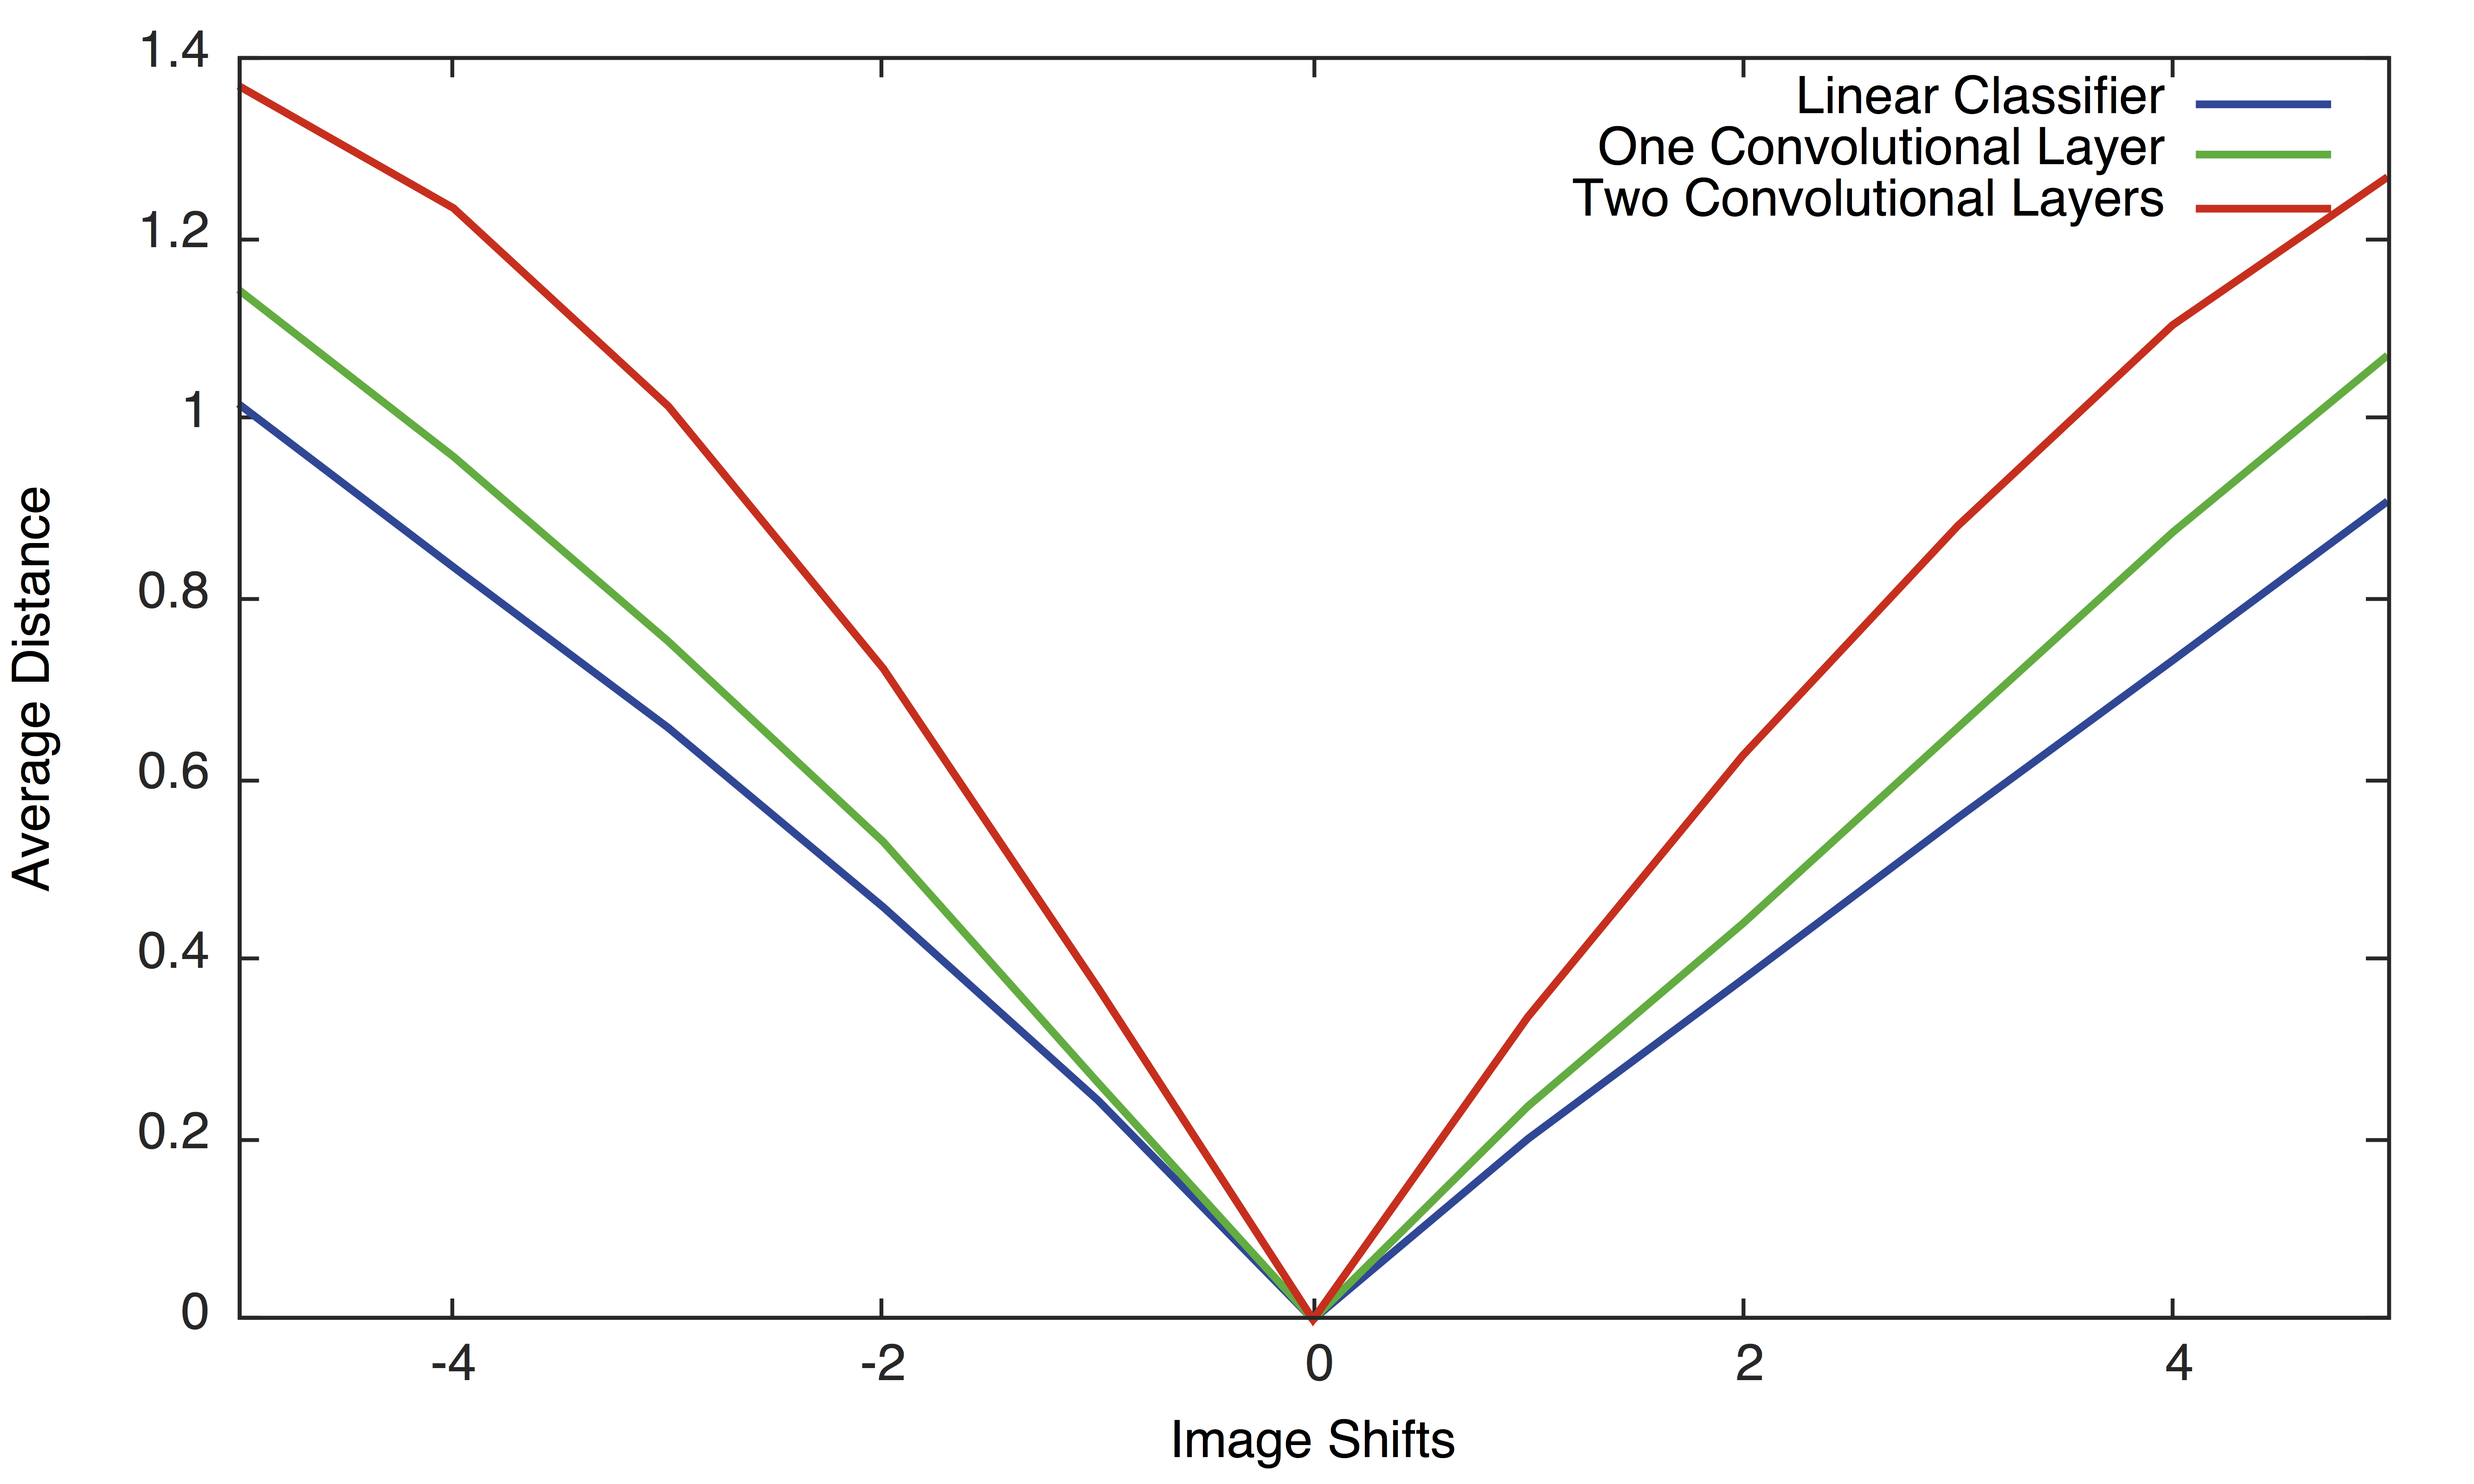
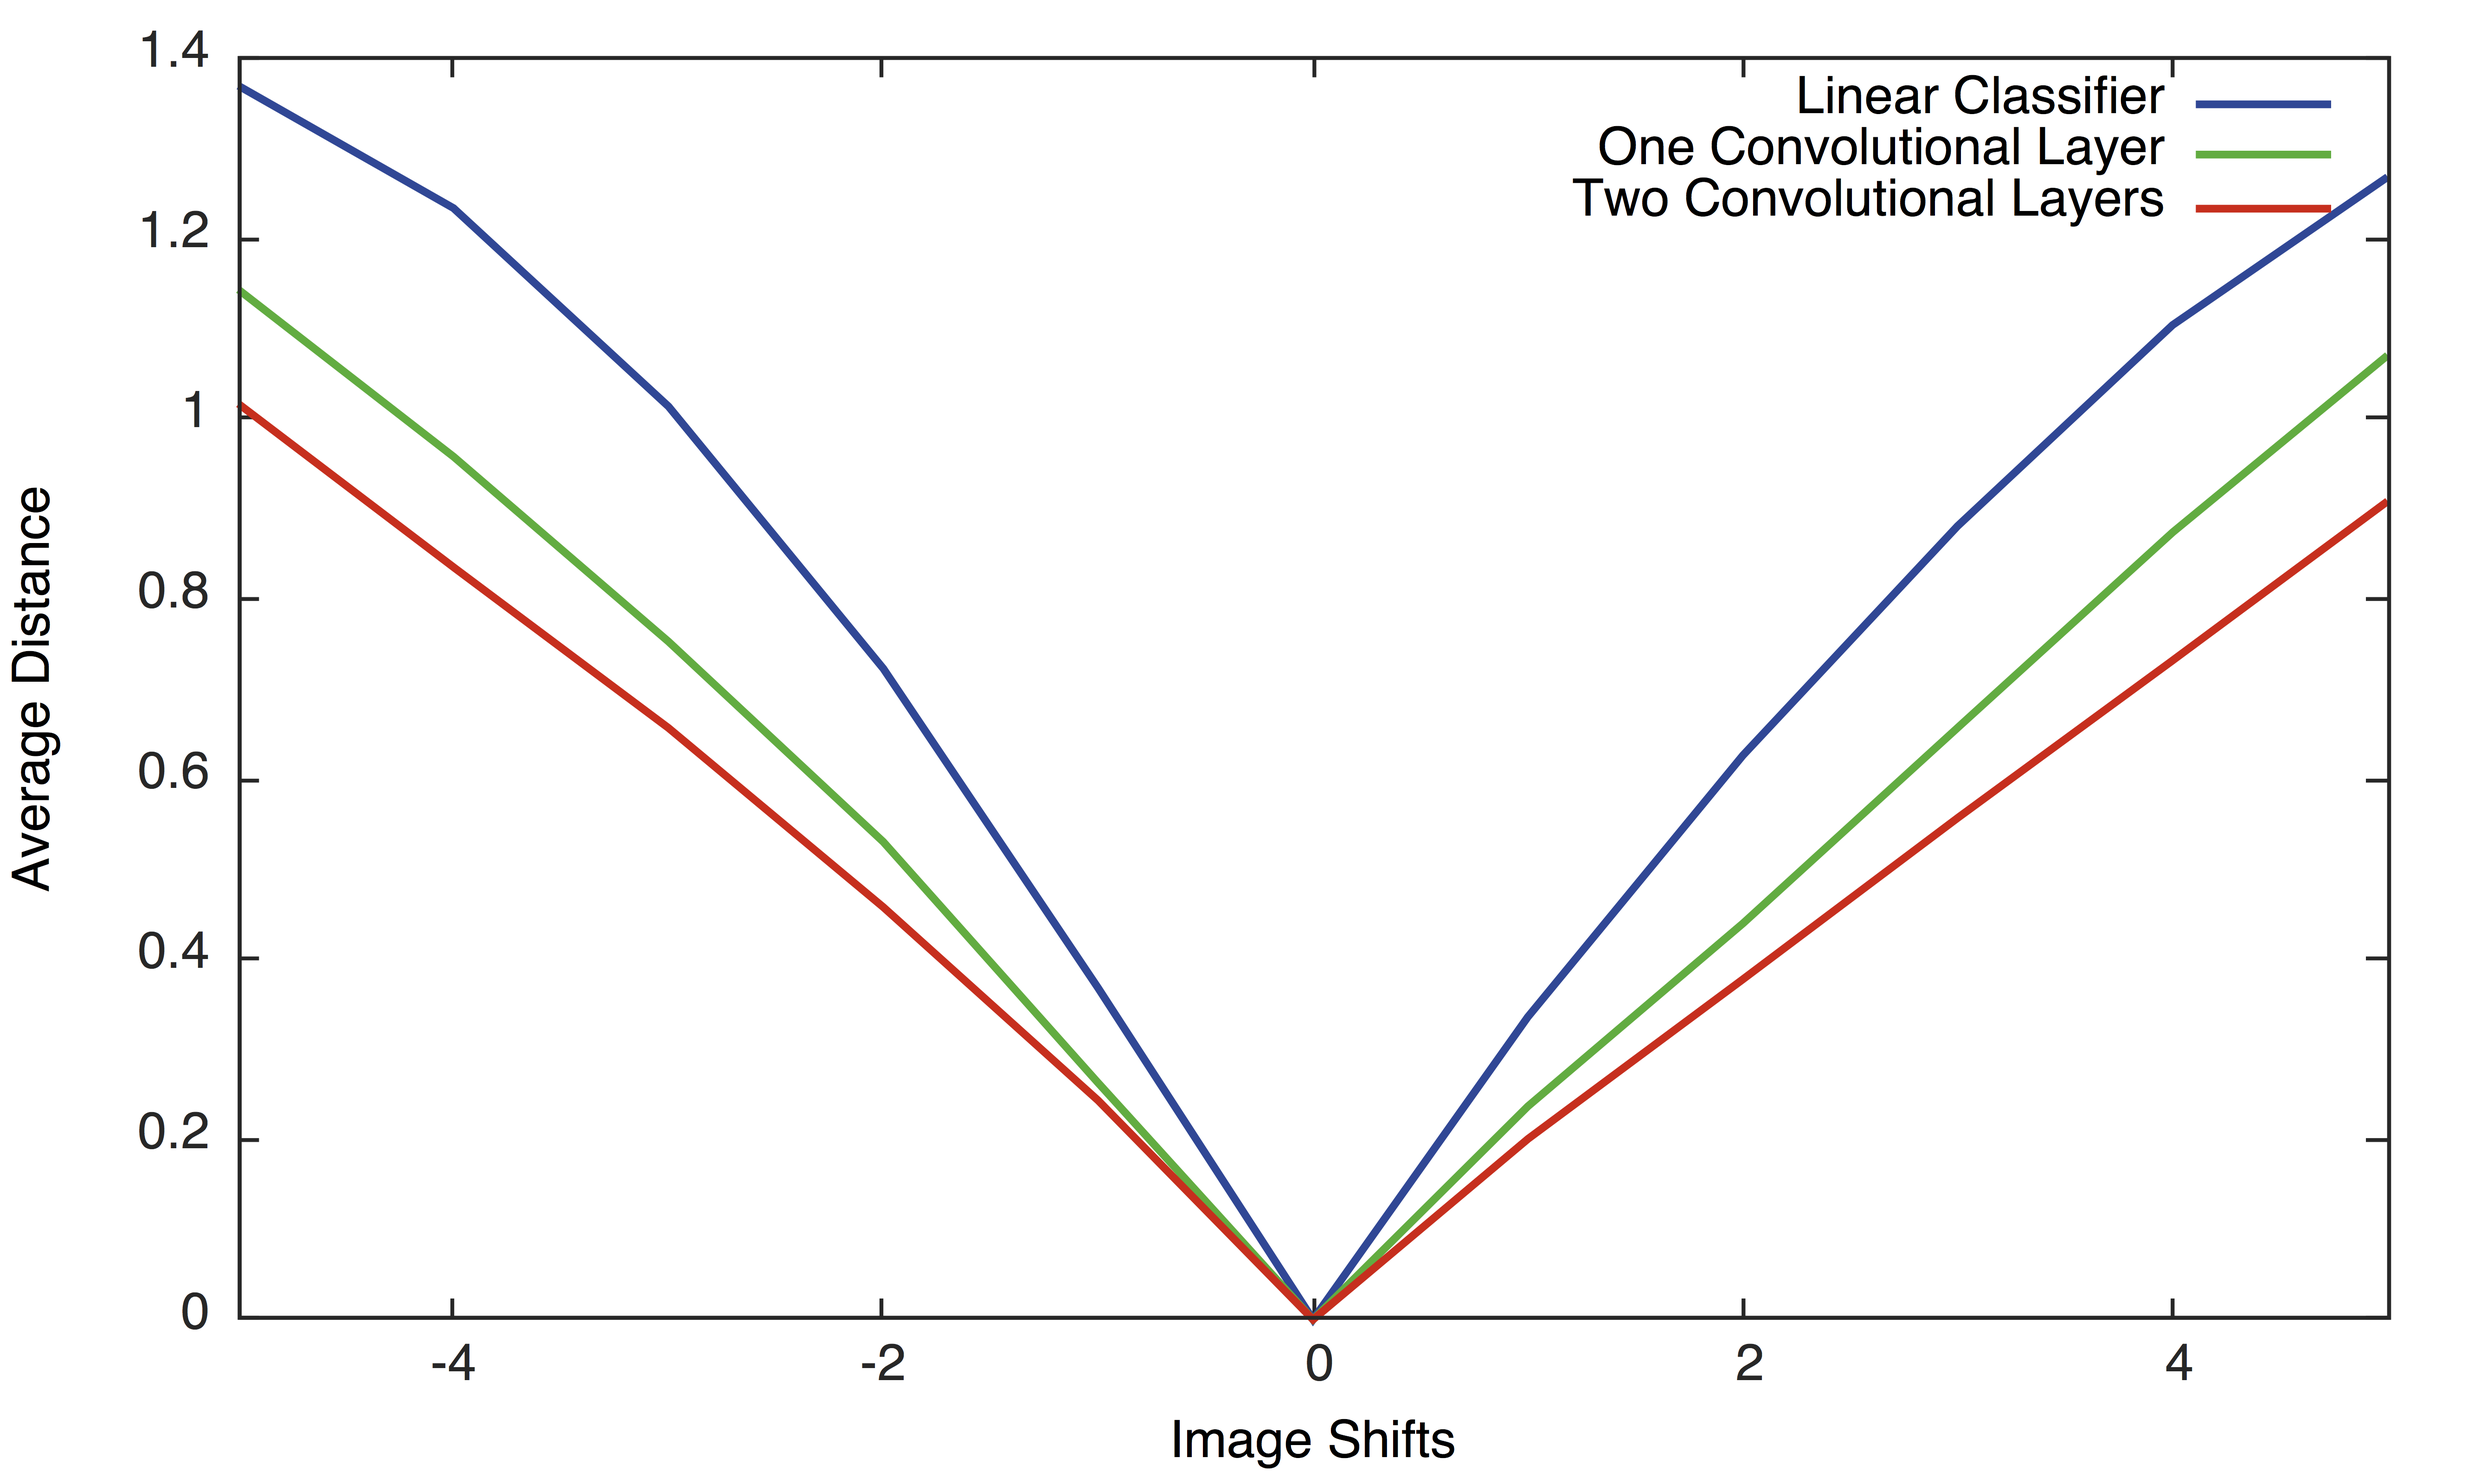
change invariance.png

diff --git a/README.md b/README.md
@@ -190,11 +190,11 @@ To plot the average distance
 require 'gnuplot'
 x = {}
 for i = 1, 11 do table.insert(x, i - 6) end
-y0 = {1.01600, 0.83485, 0.65654, 0.45781, 0.24308, 0.00000, 0.20050, 0.37763,
+y2 = {1.01600, 0.83485, 0.65654, 0.45781, 0.24308, 0.00000, 0.20050, 0.37763,
     0.55655, 0.73132, 0.90802}
 y1 = {1.14268, 0.95751, 0.75228, 0.53026, 0.26268, 0.00000, 0.23673, 0.43956,
     0.65670, 0.87340, 1.06983}
-y2 = {1.36899, 1.23310, 1.01327, 0.72242, 0.36792, 0.00000, 0.33592, 0.62614,
+y0 = {1.36899, 1.23310, 1.01327, 0.72242, 0.36792, 0.00000, 0.33592, 0.62614,
     0.88062, 1.10357, 1.26769}
 gnuplot.ylabel('Average Distance')
 gnuplot.xlabel('Image Shifts')
